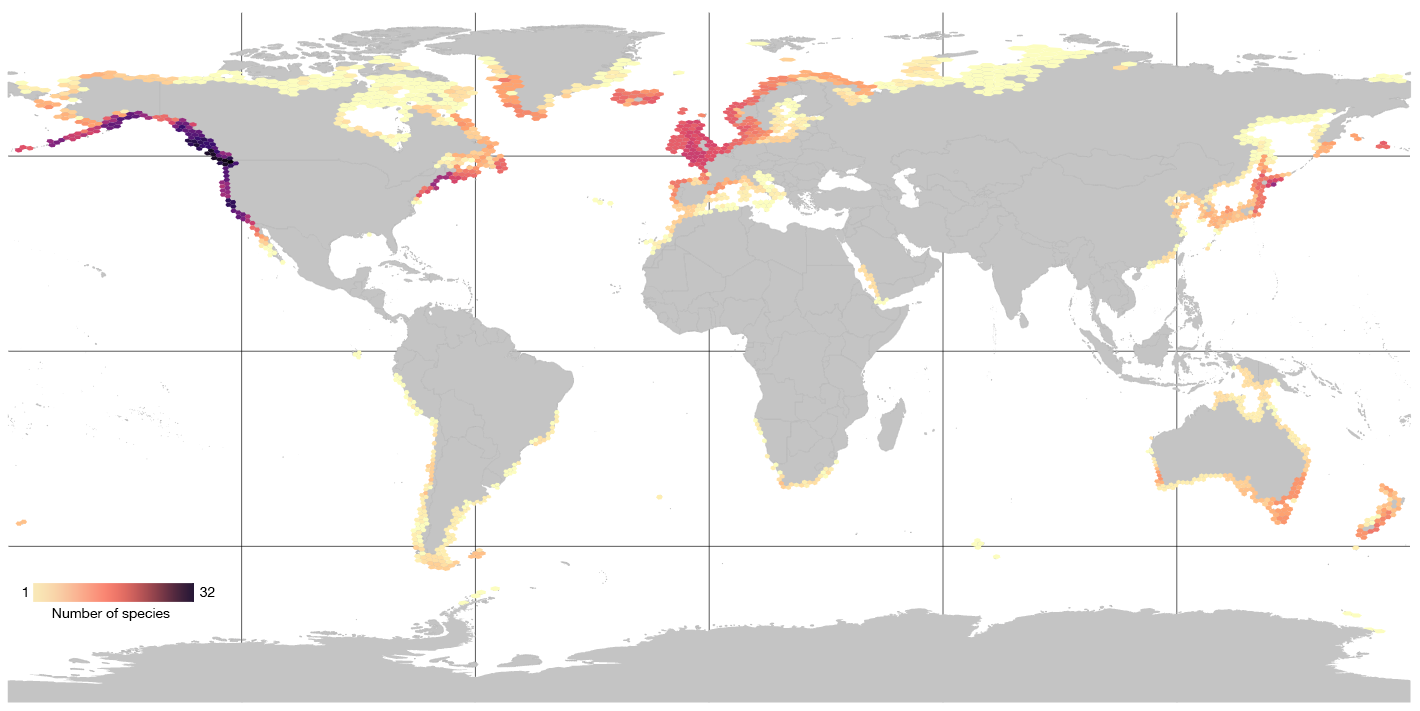
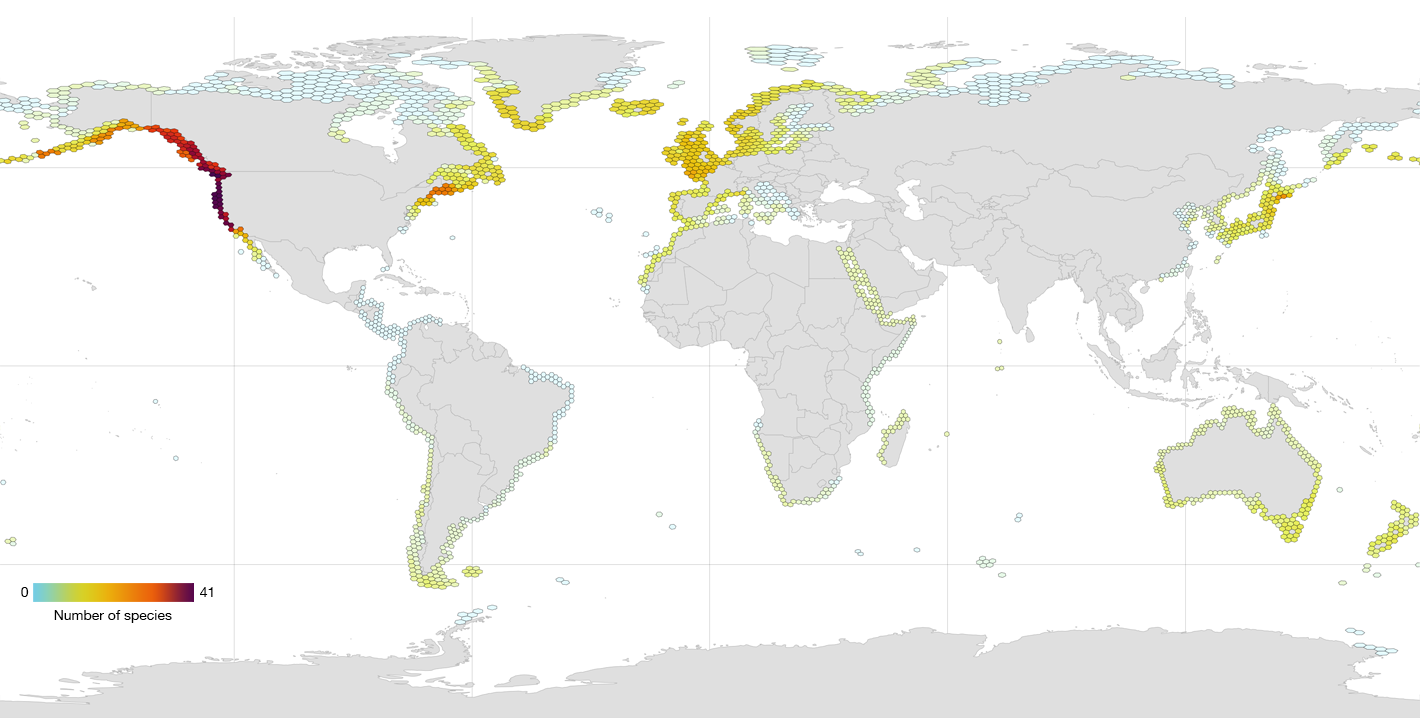
Up.

diff --git a/_layouts/future-climate-impacts-on-marine-forests.html b/_layouts/future-climate-impacts-on-marine-forests.html
@@ -55,23 +55,44 @@ layout: default
 
 <div class="row justify-content-center top-spacer-40">
   <div class="col-md-10">
-    <h4>Future biodiversity changes of seagrass forests under the lower emission scenario</h4>
+    <h4>Future biodiversity changes of kelp forests</h4>
+    <h4>Lower emission scenario</h4>
+    <div class="border--round box-shadow-wide"  style="height: 450px; overflow: hidden; padding: 25px">
+      <img alt="Image" src="https://www.marineforests.com/assets/img/diversity-change-kelp-ssp119.png" style="margin-bottom: 30px" />
+    </div>
+  </div>
+</div>
+
+<div class="row justify-content-center top-spacer-50">
+  <div class="col-md-10">
+    <h4>Higher emission scenario</h4>
+    <div class="border--round box-shadow-wide"  style="height: 450px; overflow: hidden; padding: 25px">
+      <img alt="Image" src="https://www.marineforests.com/assets/img/diversity-change-kelp-ssp585.png" style="margin-bottom: 30px" />
+    </div>
+  </div>
+</div>
+
+
+<div class="row justify-content-center top-spacer-40">
+  <div class="col-md-10">
+    <h4>Future biodiversity changes of seagrass forests</h4>
+    <h4>Lower emission scenario</h4>
     <div class="border--round box-shadow-wide"  style="height: 450px; overflow: hidden; padding: 25px">
       <img alt="Image" src="https://www.marineforests.com/assets/img/diversity-change-seagrass-ssp119.png" style="margin-bottom: 30px" />
     </div>
   </div>
 </div>
 
-<div class="row justify-content-center top-spacer-100">
+<div class="row justify-content-center top-spacer-50">
   <div class="col-md-10">
-    <h4>Future biodiversity changes of seagrass forests under the higher emission scenario</h4>
+    <h4>Higher emission scenario</h4>
     <div class="border--round box-shadow-wide"  style="height: 450px; overflow: hidden; padding: 25px">
       <img alt="Image" src="https://www.marineforests.com/assets/img/diversity-change-seagrass-ssp585.png" style="margin-bottom: 30px" />
     </div>
   </div>
 </div>
 
-<div class="row justify-content-center top-spacer-20">
+<div class="row justify-content-center top-spacer-100">
     <div class="col-md-8">
 
       <p class="lead top-spacer-10 text-left">

diff --git a/_layouts/species-richness-marine-forests.html b/_layouts/species-richness-marine-forests.html
@@ -73,8 +73,7 @@ layout: default
 </div>
 
 
-<div class="row justify-content-center top-spacer-100">
-  <div class="col-md-10">
+<!-- -   <div class="col-md-10">
     <h4>Species richness of fucales forests</h4>
     <div class="border--round box-shadow-wide"  style="height: 450px; overflow: hidden; padding: 25px">
       <img alt="Image" src="https://www.marineforests.com/assets/img/diversity-fucales.png" style="margin-bottom: 30px" />
@@ -90,7 +89,7 @@ layout: default
       </p>
 
     </div>
-</div>
+</div> - - -->
 
 
 <div class="row justify-content-center top-spacer-100">
